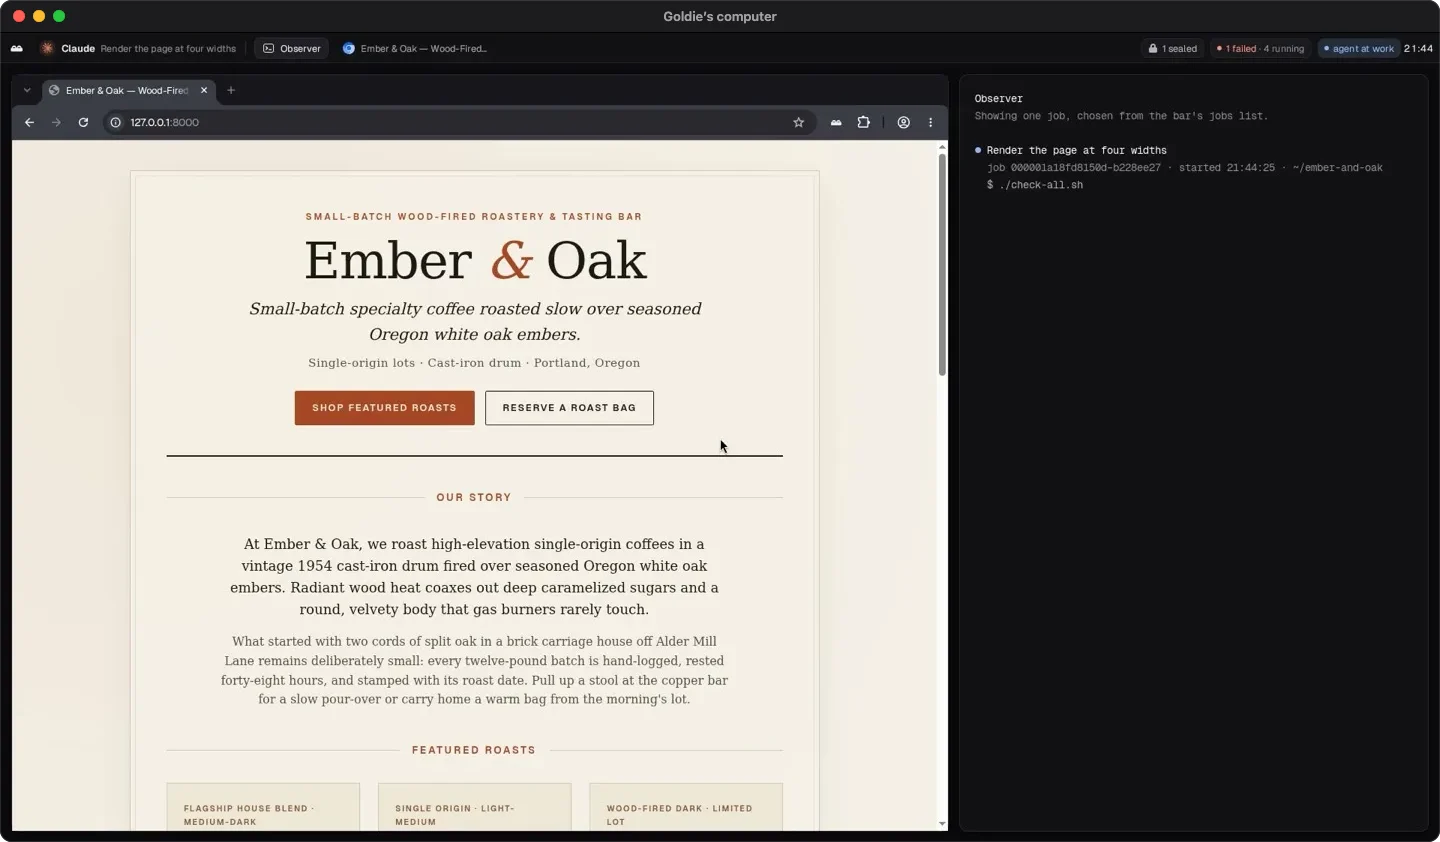
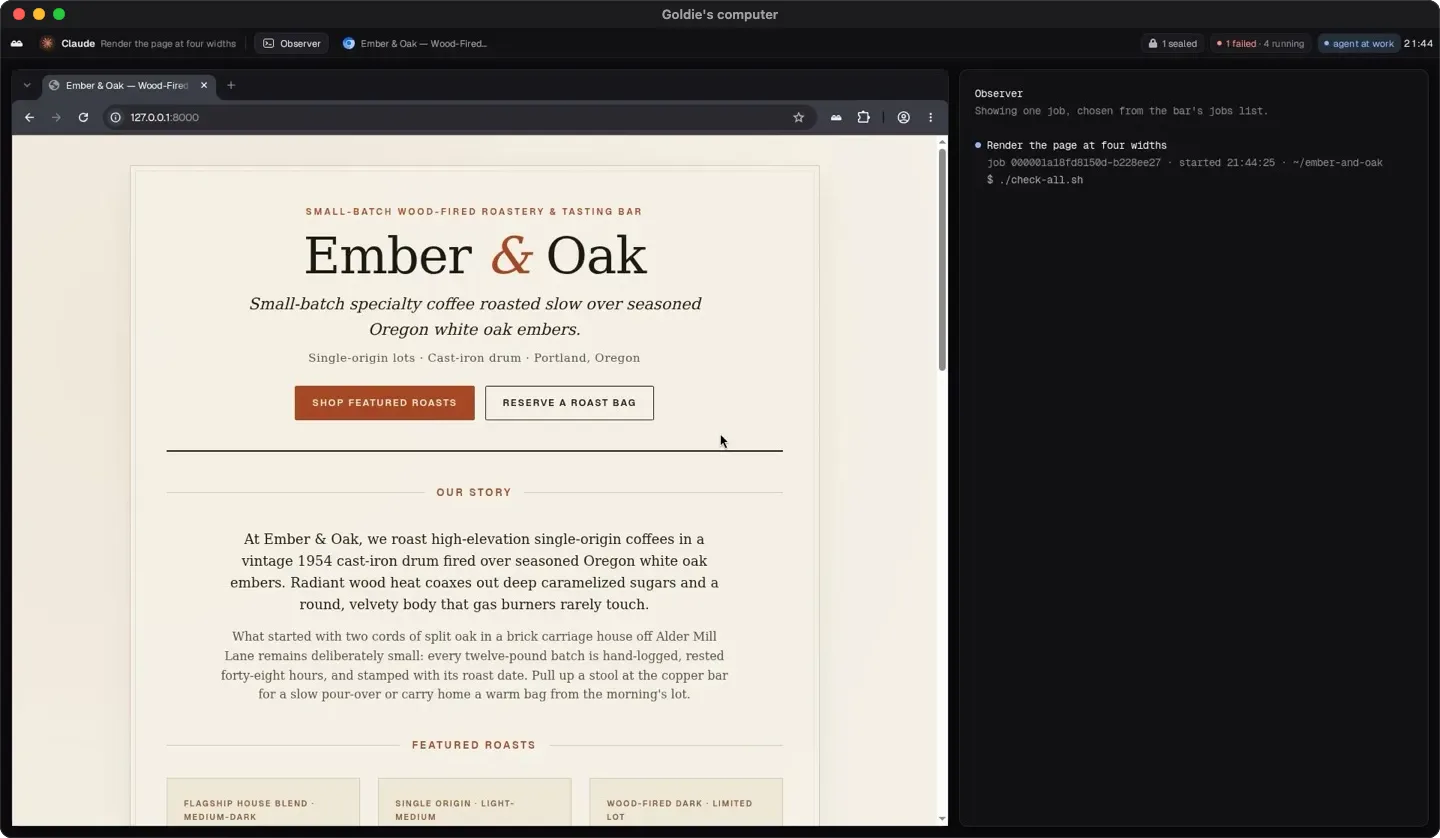
A teammate works in a browser of its own or, with one switch, a whole desktop, and the page lets you flip between them; the hero's sentence catches one pass of gold light that lays slanted green highlights under what it promises

diff --git a/site/public/index.html b/site/public/index.html
@@ -28,7 +28,7 @@
 <script>document.documentElement.classList.add("js")</script>
 <link rel="preload" href="/tokens.css" as="style">
 <link rel="preload" href="/base.css" as="style">
-<link rel="stylesheet" href="/page.css?v=20261104c">
+<link rel="stylesheet" href="/page.css?v=20261104l">
 <script type="application/ld+json">{"@context":"https://schema.org","@type":"SoftwareApplication","name":"Hotline","url":"https://hotline.dev/","description":"An open-source personal agent ecosystem. Your agents work as a team, have their own computer, and run on the subscriptions you already pay for.","applicationCategory":"DeveloperApplication","operatingSystem":"macOS, Windows, Linux","offers":{"@type":"Offer","price":"0","priceCurrency":"USD"},"license":"https://github.com/1broseidon/hotline/blob/main/LICENSE-MIT","downloadUrl":"https://github.com/1broseidon/hotline/releases/latest","codeRepository":"https://github.com/1broseidon/hotline","author":{"@type":"Person","name":"George Dikeakos"}}</script>
 </head>
 <body>
@@ -52,7 +52,7 @@
 <section class="hero container" aria-labelledby="hero-h">
   <div class="hero-text">
     <h1 id="hero-h" aria-label="Hi, I’m Hotline."><span class="hello" aria-hidden="true"><span class="hi">Hi, I’m </span><span class="name" data-names="Goldie|June|Jarvis|hotline">hotline</span><span class="stop">.</span><span class="caret"></span></span></h1>
-    <p class="lead">I’m an open-source personal agent ecosystem. I work with my teammates, have my own computer, and run on the subscriptions you already pay for.</p>
+    <p class="lead">I’m an <mark><span>open-source</span></mark> personal agent ecosystem. I work with my teammates, have <mark><span>my </span><span>own </span><span>computer</span></mark>, and run on the subscriptions you <mark><span>already </span><span>pay </span><span>for</span></mark>.</p>
     <div class="hero-act">
       <a class="btn" data-dl-auto data-dl="mac" href="https://github.com/1broseidon/hotline/releases/latest">Download for macOS</a>
       <button class="cmd" type="button" data-cmd data-copy="curl -fsSL https://hotline.dev/install | sh" title="Copy the install command"><span class="prompt" aria-hidden="true">$</span><code data-cmd-text>curl -fsSL https://hotline.dev/install | sh</code><span class="cmd-label" data-copy-label>Copy</span></button>
@@ -100,14 +100,26 @@
   </ul>
 </section>
 
-<section class="section container" aria-labelledby="computer-h">
+<section class="section container" aria-labelledby="reach-h">
   <div class="grid">
     <div class="col-l media-text">
-      <h2 id="computer-h">My own computer, in a window you can watch.</h2>
-      <p class="sec-p">A Linux desktop in a container on your machine: a screen, a browser, a shell. I run jobs there and sign in with keys you grant. When I need you, take the mouse.</p>
-      <p class="caption">Goldie’s computer, rendering the Ember &amp; Oak page at four widths. Docker, Podman or Apple container.</p>
+      <h2 id="reach-h" class="lines-2"><span>A browser of my own,</span> <span>or a whole desktop.</span></h2>
+      <p class="sec-p">Every teammate comes with a browser for quick work: read a page, check a fix, sign in with a key you grant. For heavier jobs, one switch gives me a Linux desktop instead. Either way, you can watch or take the mouse.</p>
+      <div class="pick" role="tablist" aria-label="What a teammate works in" data-pick hidden>
+        <button type="button" role="tab" id="pick-browser" aria-controls="reach-browser" aria-selected="true">Browser</button>
+        <button type="button" role="tab" id="pick-desktop" aria-controls="reach-desktop" aria-selected="false" tabindex="-1">Desktop</button>
+      </div>
     </div>
-    <figure class="col-r window"><img src="/screens/computer-window.webp" width="1440" height="842" alt="The window onto Goldie’s computer: Chromium showing the Ember &amp; Oak page, and beside it the Observer following the job that renders the page at four widths." loading="lazy" decoding="async"></figure>
+    <div class="col-r reach" data-reach>
+      <figure class="reach-one" id="reach-browser" role="tabpanel" aria-labelledby="pick-browser">
+        <div class="window"><img src="/screens/browser-window.webp" width="1600" height="1090" alt="Kit’s browser: Hotline’s bar says Kit is driving, with Take control beside the address, over the Ember &amp; Oak page Kit built." loading="lazy" decoding="async"></div>
+        <figcaption class="caption">Built in. Kit drives its browser while you watch, until you take control.</figcaption>
+      </figure>
+      <figure class="reach-one" id="reach-desktop" role="tabpanel" aria-labelledby="pick-desktop">
+        <div class="window"><img src="/screens/computer-window.webp" width="1440" height="838" alt="The window onto Goldie’s desktop: Chromium showing the Ember &amp; Oak page, and beside it the Observer following the job that renders the page at four widths." loading="lazy" decoding="async"></div>
+        <figcaption class="caption">Goldie’s desktop, rendering the same page at four widths. Docker, Podman or Apple container.</figcaption>
+      </figure>
+    </div>
   </div>
 </section>
 
@@ -271,9 +283,12 @@ if (brand) { brand.addEventListener("pointerenter", () => toad.turn()); brand.ad
 const typing = (() => {
   const el = document.querySelector(".hero .name"); if (!el) return { finish() {} };
   const h1 = el.closest("h1"), names = el.dataset.names.split("|"), own = names[names.length - 1];
+  const lead = document.querySelector(".hero .lead");
   let done = false;
-  const finish = () => { if (done) return; done = true; el.textContent = own; h1.classList.remove("is-typing"); h1.classList.add("is-done"); toad.hangUp(); };
+  // The highlights wait for the light; however the typing ends, they are there after.
+  const finish = () => { if (done) return; done = true; el.textContent = own; h1.classList.remove("is-typing"); h1.classList.add("is-done"); toad.hangUp(); if (lead) lead.classList.remove("is-waiting"); };
   if (reduce) { finish(); return { finish }; }
+  if (lead) lead.classList.add("is-waiting");
   const wait = (ms) => new Promise((r) => setTimeout(r, ms));
   (async () => {
     h1.classList.add("is-typing"); el.textContent = "";
@@ -289,8 +304,33 @@ const typing = (() => {
     }
     if (done) return;
     h1.classList.add("is-own"); toad.hangUp();
+    // The light is a flourish: if this browser cannot play it, the highlights are simply there.
+    if (lead) { try { shimmer(); } catch (e) { lead.classList.remove("is-waiting"); } }
     await wait(2400); finish();
   })();
+  // The name has landed: a band of gold crosses the sentence under it once, at 45 degrees, and
+  // lays the green highlights down as it goes. The band's bright core reaches a point (x, y) of the
+  // paragraph at duration * (1/4 + (x + y) / 2(w + h)) (see .lead.is-shimmer::after), so each word's
+  // highlight starts as the core reaches its left edge and its end stays under the core. Word by
+  // word, so a phrase that wraps on a phone is laid down line by line as the light reaches it.
+  function shimmer() {
+    lead.dataset.shine = lead.textContent;
+    lead.addEventListener("animationend", () => lead.classList.remove("is-shimmer"), { once: true });
+    lead.classList.add("is-shimmer");
+    const box = lead.getBoundingClientRect();
+    const duration = parseFloat(getComputedStyle(lead, "::after").animationDuration) * 1000;
+    const at = (x, y) => duration * (0.25 + (x - box.left + y - box.top) / (2 * (box.width + box.height)));
+    // The words brighten from the sentence's ink to full ink as their highlight arrives.
+    const dim = getComputedStyle(lead).color;
+    lead.classList.remove("is-waiting");
+    for (const word of lead.querySelectorAll("mark > span")) {
+      const r = word.getBoundingClientRect(), start = Math.max(0, at(r.left, r.top + r.height / 2)), bright = getComputedStyle(word).color;
+      const timing = { delay: start, duration: Math.max(1, at(r.right, r.top + r.height / 2) - start), easing: "linear", fill: "backwards" };
+      // The slanted piece is revealed from its left, so it keeps its slant while it grows.
+      word.animate([{ clipPath: "inset(0 100% 0 0)" }, { clipPath: "inset(0 0 0 0)" }], { ...timing, pseudoElement: "::before" });
+      word.animate([{ color: dim }, { color: bright }], timing);
+    }
+  }
   return { finish };
 })();
 
@@ -335,6 +375,26 @@ const typing = (() => {
   addEventListener("resize", () => { const s = scrollY; scrollTo(0, 0); measure(); scrollTo(0, s); });
   if (document.fonts) document.fonts.ready.then(measure);
   measure();
+})();
+
+// A teammate works in a browser or a desktop: the switch shows one window at a time, in one
+// place, so the page does not move. Without the script both windows show, one above the other.
+(() => {
+  const pick = document.querySelector("[data-pick]"), reach = document.querySelector("[data-reach]"); if (!pick || !reach) return;
+  const tabs = [...pick.querySelectorAll("[role=tab]")];
+  const show = (tab, focus) => {
+    tabs.forEach((t) => { const on = t === tab; t.setAttribute("aria-selected", String(on)); t.tabIndex = on ? 0 : -1; });
+    reach.dataset.shown = tab.id.replace("pick-", "");
+    if (focus) tab.focus();
+  };
+  tabs.forEach((tab, i) => {
+    tab.addEventListener("click", () => show(tab, false));
+    tab.addEventListener("keydown", (e) => {
+      const step = e.key === "ArrowRight" ? 1 : e.key === "ArrowLeft" ? -1 : 0; if (!step) return;
+      e.preventDefault(); show(tabs[(i + step + tabs.length) % tabs.length], true);
+    });
+  });
+  pick.hidden = false; show(tabs[0], false);
 })();
 
 // The masthead's Download arrives once the hero's own has scrolled away, so the two never compete.

diff --git a/site/public/page.css b/site/public/page.css
@@ -3,7 +3,8 @@
  * axes: dark/grotesk-sans/chromatic-green · posture: restrained · contrast: pass · fold: pass · v2.0.0 */
 /* Hallmark · pre-emit critique: P4 H5 E4 S5 R5 V3 · weakest: V, a redesign keeps the page's order and its brand by request; the composition is what moved: one grid, the mark at mark size, the desk at full frame */
 /* Hallmark · reworded "Goldie’s thread on desk and phone: a grant she asked for, then work handed to Quill, Kit and Huck." to "Goldie’s thread on desk and phone: the fixes you approve, handed to Kit and Huck, then her report." · the hero's desk shows the fixes, not the grant */
-/* By the owner's request, against Hallmark's floor (47a, a drawn OS window): the page is screenshots only, each whole window in the Mac's chrome. The chrome is drawn around real captures (the desk from the dev build, the computer's own screen), with the lights where the app seats them: 12px, centred on the 40px strip. */
+/* By the owner's request, against Hallmark's floor (47a, a drawn OS window): the page is screenshots only, each whole window in the Mac's chrome. The chrome is drawn around real captures (the desk from the dev build, the browser's own bar over the page Kit built, the computer's own screen), with the lights where the app seats them: 12px, centred on the 40px strip. */
+/* Hallmark · waive 2b · asked for by the owner · the gold is a light that crosses a copy of the owner's sentence once as the name lands, 1.3s, then the copy is gone; the sentence itself is always solid ink, and what stays is three green highlights, not gradient text and never runs with reduced motion */
 /* Hallmark · dropped .toad--hero, .toad--sign, .sign · the toad is the mark, in the masthead and the footer; at headline size it read as a sticker */
 @import url("./tokens.css");
 @import url("./base.css");
@@ -72,6 +73,30 @@ html:not(.js) .mast { background: var(--color-paper); border-bottom-color: var(-
 @media (prefers-reduced-motion: reduce) { .is-typing .caret { animation: none; } .is-done .caret { transition: none; } }
 
 .lead { margin-top: var(--space-lg); font-size: var(--text-lead); line-height: 1.5; color: var(--color-ink-2); max-width: 46ch; }
+/* When the name lands on its own, the sentence under it catches the light once: a band of gold
+   at 45 degrees crosses it from the top left to the bottom right. The gold runs on a copy of the
+   sentence laid exactly over it, so the sentence keeps its own ink and its highlights throughout.
+   The copy is the gradient's window, so the gradient is three times the paragraph each way and
+   slides from one corner past the other; the script times the highlights from this geometry. */
+.lead { position: relative; isolation: isolate; }
+.lead.is-shimmer::after { content: attr(data-shine); position: absolute; inset: 0; pointer-events: none; background: linear-gradient(135deg, transparent 42%, var(--color-gold) 47%, var(--color-gold-hi) 50%, var(--color-gold) 53%, transparent 58%) 100% 100% / 300% 300% no-repeat; -webkit-background-clip: text; background-clip: text; color: transparent; animation: shimmer 1.3s linear both; }
+@keyframes shimmer { from { background-position: 100% 100%; } to { background-position: 0 0; } }
+/* What the sentence promises is highlighted in the toad's green, the stroke leaning like italic
+   while the words stay upright: laid down by the light as it passes, there at rest without it.
+   Each word carries its own slanted piece, its space included, behind its text; every piece has
+   the same slant and height, so neighbours join along one edge into a single stroke, and a phrase
+   that wraps is highlighted on each of its lines. The ends of a phrase reach a little further, so
+   the slant clears its first and last letters. */
+.lead mark { background: none; color: inherit; }
+.lead mark > span { position: relative; color: var(--color-ink); }
+.lead mark > span::before { content: ""; position: absolute; z-index: -1; inset: 0.06em 0; background: var(--color-mark); transform: skewX(-12deg); }
+.lead mark > span:first-child::before { left: -0.18em; }
+/* Each piece runs a hair under the next, so the joins never show. */
+.lead mark > span:not(:last-child)::before { right: -0.06em; }
+.lead mark > span:last-child::before { right: -0.18em; }
+.lead.is-waiting mark > span { color: inherit; }
+.lead.is-waiting mark > span::before { clip-path: inset(0 100% 0 0); }
+@media (prefers-reduced-motion: reduce) { .lead.is-shimmer::after { content: none; } }
 .hero-act { display: flex; flex-wrap: wrap; align-items: center; gap: var(--space-sm); margin-top: var(--space-xl); }
 /* The install line sits beside the download as its equal: the same height, set as the command it is. */
 .cmd { display: inline-flex; align-items: center; gap: var(--space-sm); min-width: 0; max-width: 100%; height: 52px; padding: 0 var(--space-sm) 0 var(--space-md); border: var(--rule-hair) solid var(--color-rule); border-radius: var(--radius-control); background: var(--color-paper-2); color: var(--color-ink-2); font-family: var(--font-mono); font-size: var(--text-xs); cursor: pointer; transition: border-color var(--dur-micro) var(--ease-out); }
@@ -129,9 +154,25 @@ html:not(.js) .mast { background: var(--color-paper); border-bottom-color: var(-
 /* A capture that starts mid-list fades in from the top, as a list does when it scrolls. */
 .shot--piece img.fade-top { border-top: 0; border-top-left-radius: 0; border-top-right-radius: 0; -webkit-mask-image: linear-gradient(to bottom, transparent, var(--color-ink) var(--space-xl)); mask-image: linear-gradient(to bottom, transparent, var(--color-ink) var(--space-xl)); }
 
-/* The computer: its words on the left, the window onto it on the right. */
+/* Browser or desktop: the words and the switch on the left, the window it picks on the right.
+   Both windows share one cell, so the band keeps the taller one's height and nothing moves
+   when the switch flips; without the script they stack, the browser first. */
 .media-text .sec-p { margin-top: var(--space-lg); }
-.media-text .caption { margin-top: var(--space-lg); }
+/* A head set as its two phrases, each on a line of its own, wider than the usual measure. */
+.section h2.lines-2 { max-width: none; }
+.lines-2 span { display: block; }
+.pick { display: inline-flex; gap: var(--space-3xs); margin-top: var(--space-xl); padding: var(--space-3xs); border: var(--rule-hair) solid var(--color-rule); border-radius: var(--radius-control); background: var(--color-paper-2); }
+.pick[hidden] { display: none; }
+.pick button { height: 44px; padding: 0 var(--space-lg); border: 0; border-radius: calc(var(--radius-control) - var(--space-3xs)); background: none; color: var(--color-muted); font: inherit; font-size: var(--text-sm); font-weight: 600; cursor: pointer; transition: background-color var(--dur-micro) var(--ease-out), color var(--dur-micro) var(--ease-out); }
+.pick button:hover { color: var(--color-ink); }
+.pick button:active { background: var(--color-paper-3); }
+.pick button[aria-selected="true"] { background: var(--color-paper-3); color: var(--color-ink); }
+.reach-one { margin: 0; }
+.reach-one + .reach-one { margin-top: var(--space-2xl); }
+.reach-one .caption { margin-top: var(--space-md); }
+.reach[data-shown] { display: grid; }
+.reach[data-shown] > .reach-one { grid-area: 1 / 1; margin: 0; transition: opacity var(--dur-short) var(--ease-out), visibility var(--dur-short); }
+.reach[data-shown="browser"] > #reach-desktop, .reach[data-shown="desktop"] > #reach-browser { opacity: 0; visibility: hidden; }
 
 /* Facts: four, a rule over each. */
 .facts { display: grid; grid-template-columns: repeat(2, minmax(0, 1fr)); gap: var(--space-xl) var(--gap-columns); margin: 0; }

diff --git a/site/public/tokens.css b/site/public/tokens.css
@@ -15,8 +15,13 @@
   --color-paper: oklch(13.5% 0.007 250); --color-paper-2: oklch(17% 0.008 250); --color-paper-3: oklch(22% 0.009 250);
   --color-ink: oklch(95% 0.004 250); --color-ink-2: oklch(76% 0.008 250); --color-muted: oklch(62% 0.01 250);
   --color-rule: oklch(27% 0.01 250);
-  /* The toad's green: the mark, the caret and the shell prompt. Nothing else. */
+  /* The toad's green: the mark, the caret, the shell prompt and the highlights in the owner's sentence. Nothing else. */
   --color-accent: oklch(76% 0.17 142); --color-accent-ink: oklch(16% 0.03 142); --color-focus: oklch(76% 0.17 142);
+  /* The same green as a highlighter's wash, under what the owner's sentence promises. Mixed into
+     the ground rather than see-through, so the slanted pieces can overlap without a seam. */
+  --color-mark: color-mix(in oklab, var(--color-accent) 26%, var(--color-paper));
+  /* Gold: the light that crosses the owner's sentence when the name lands. Nowhere else. */
+  --color-gold: oklch(80% 0.14 85); --color-gold-hi: oklch(94% 0.08 92);
   --font-display: "IBM Plex Sans", ui-sans-serif, system-ui, sans-serif; --font-body: "IBM Plex Sans", ui-sans-serif, system-ui, sans-serif; --font-outlier: var(--font-body);
   /* Commands are set as commands: the system's own monospace, no extra download. */
   --font-mono: ui-monospace, "SF Mono", "Cascadia Mono", "JetBrains Mono", Menlo, Consolas, "DejaVu Sans Mono", monospace;

diff --git a/site/README.md b/site/README.md
@@ -40,11 +40,17 @@ shots are done. A shot names the teammate, the window size, how far back from
 the end of the tape it scrolls (`fromEnd`, in CSS pixels), the text of a
 thread line to open beside it, and the width it is written at.
 
+A shot of `"kind": "browser"` is a teammate's desk browser as its pane shows
+it: macOS's 28px title bar, Hotline's bar (the window's own `browser.html`,
+told the teammate, the address and that the teammate is driving) and the page
+at 1280 by 800, as the desk browser opens it. The page is a file in the room,
+named by `page`, such as a site a teammate built in its workspace.
+
 A still that is not the desk, such as a teammate's computer, is framed with a
 title bar instead:
 
 ```bash
-node capture.mjs frame computer.png ../public/screens/computer-window.webp --title "Goldie’s computer"
+node capture.mjs frame computer.png ../public/screens/computer-window.webp --title "Goldie's computer"
 ```
 
 The computer still on the page is `public/screens/computer-run.webp` from
